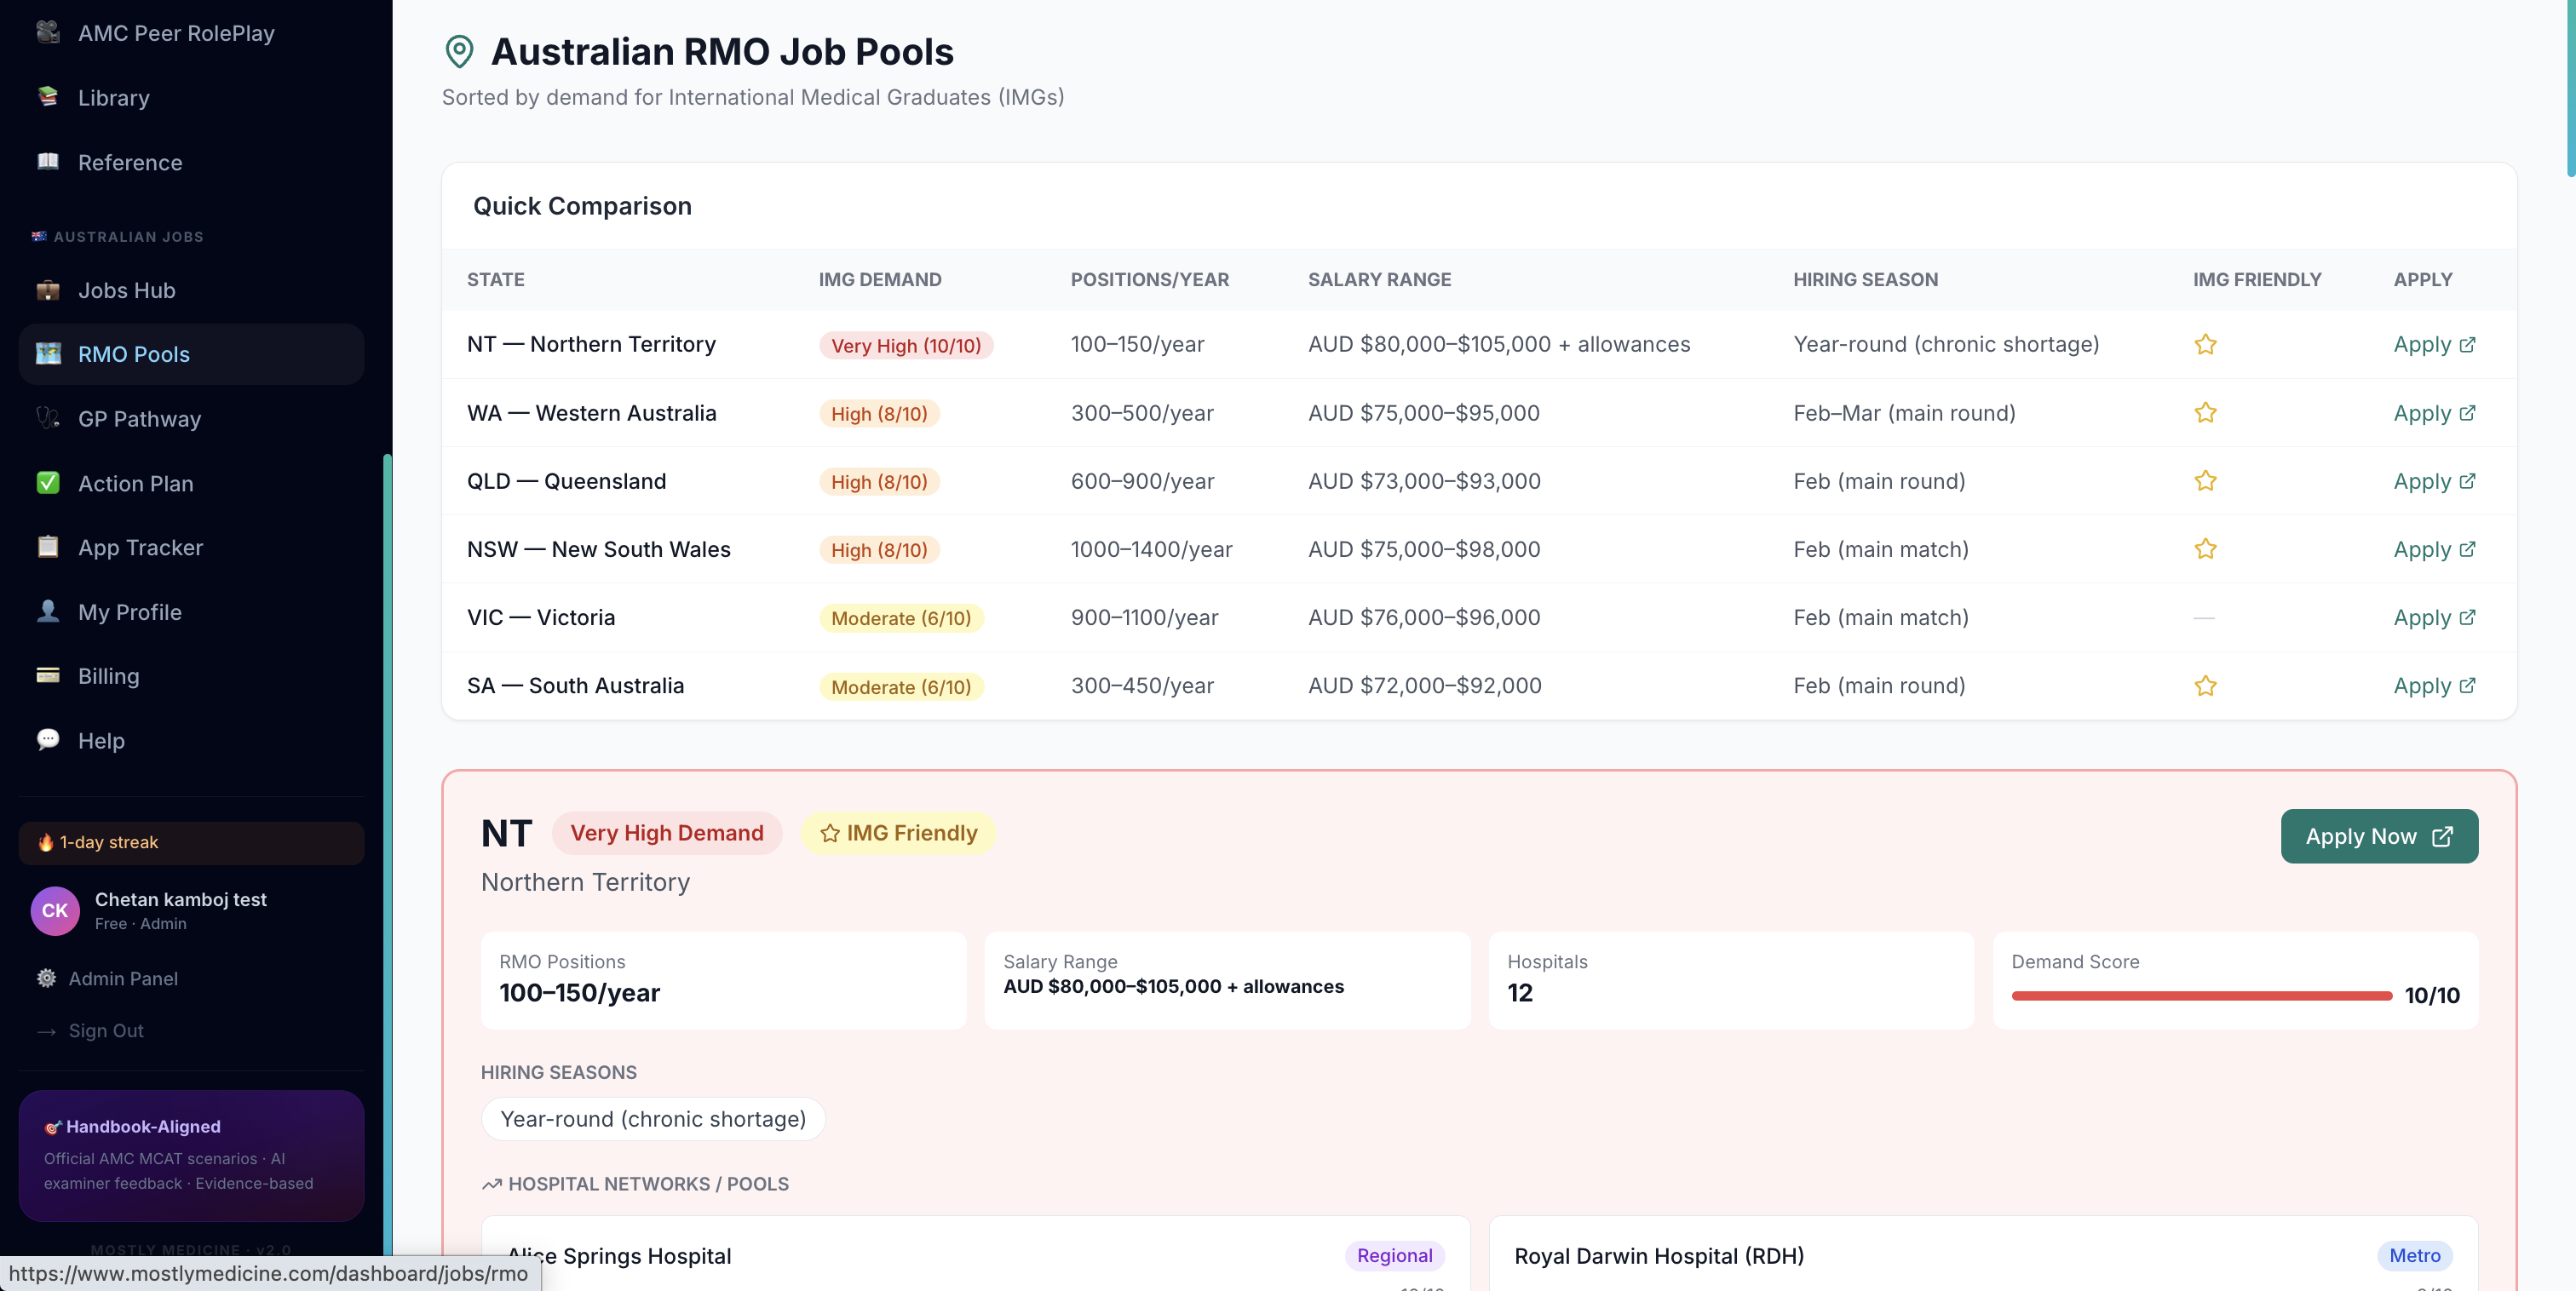
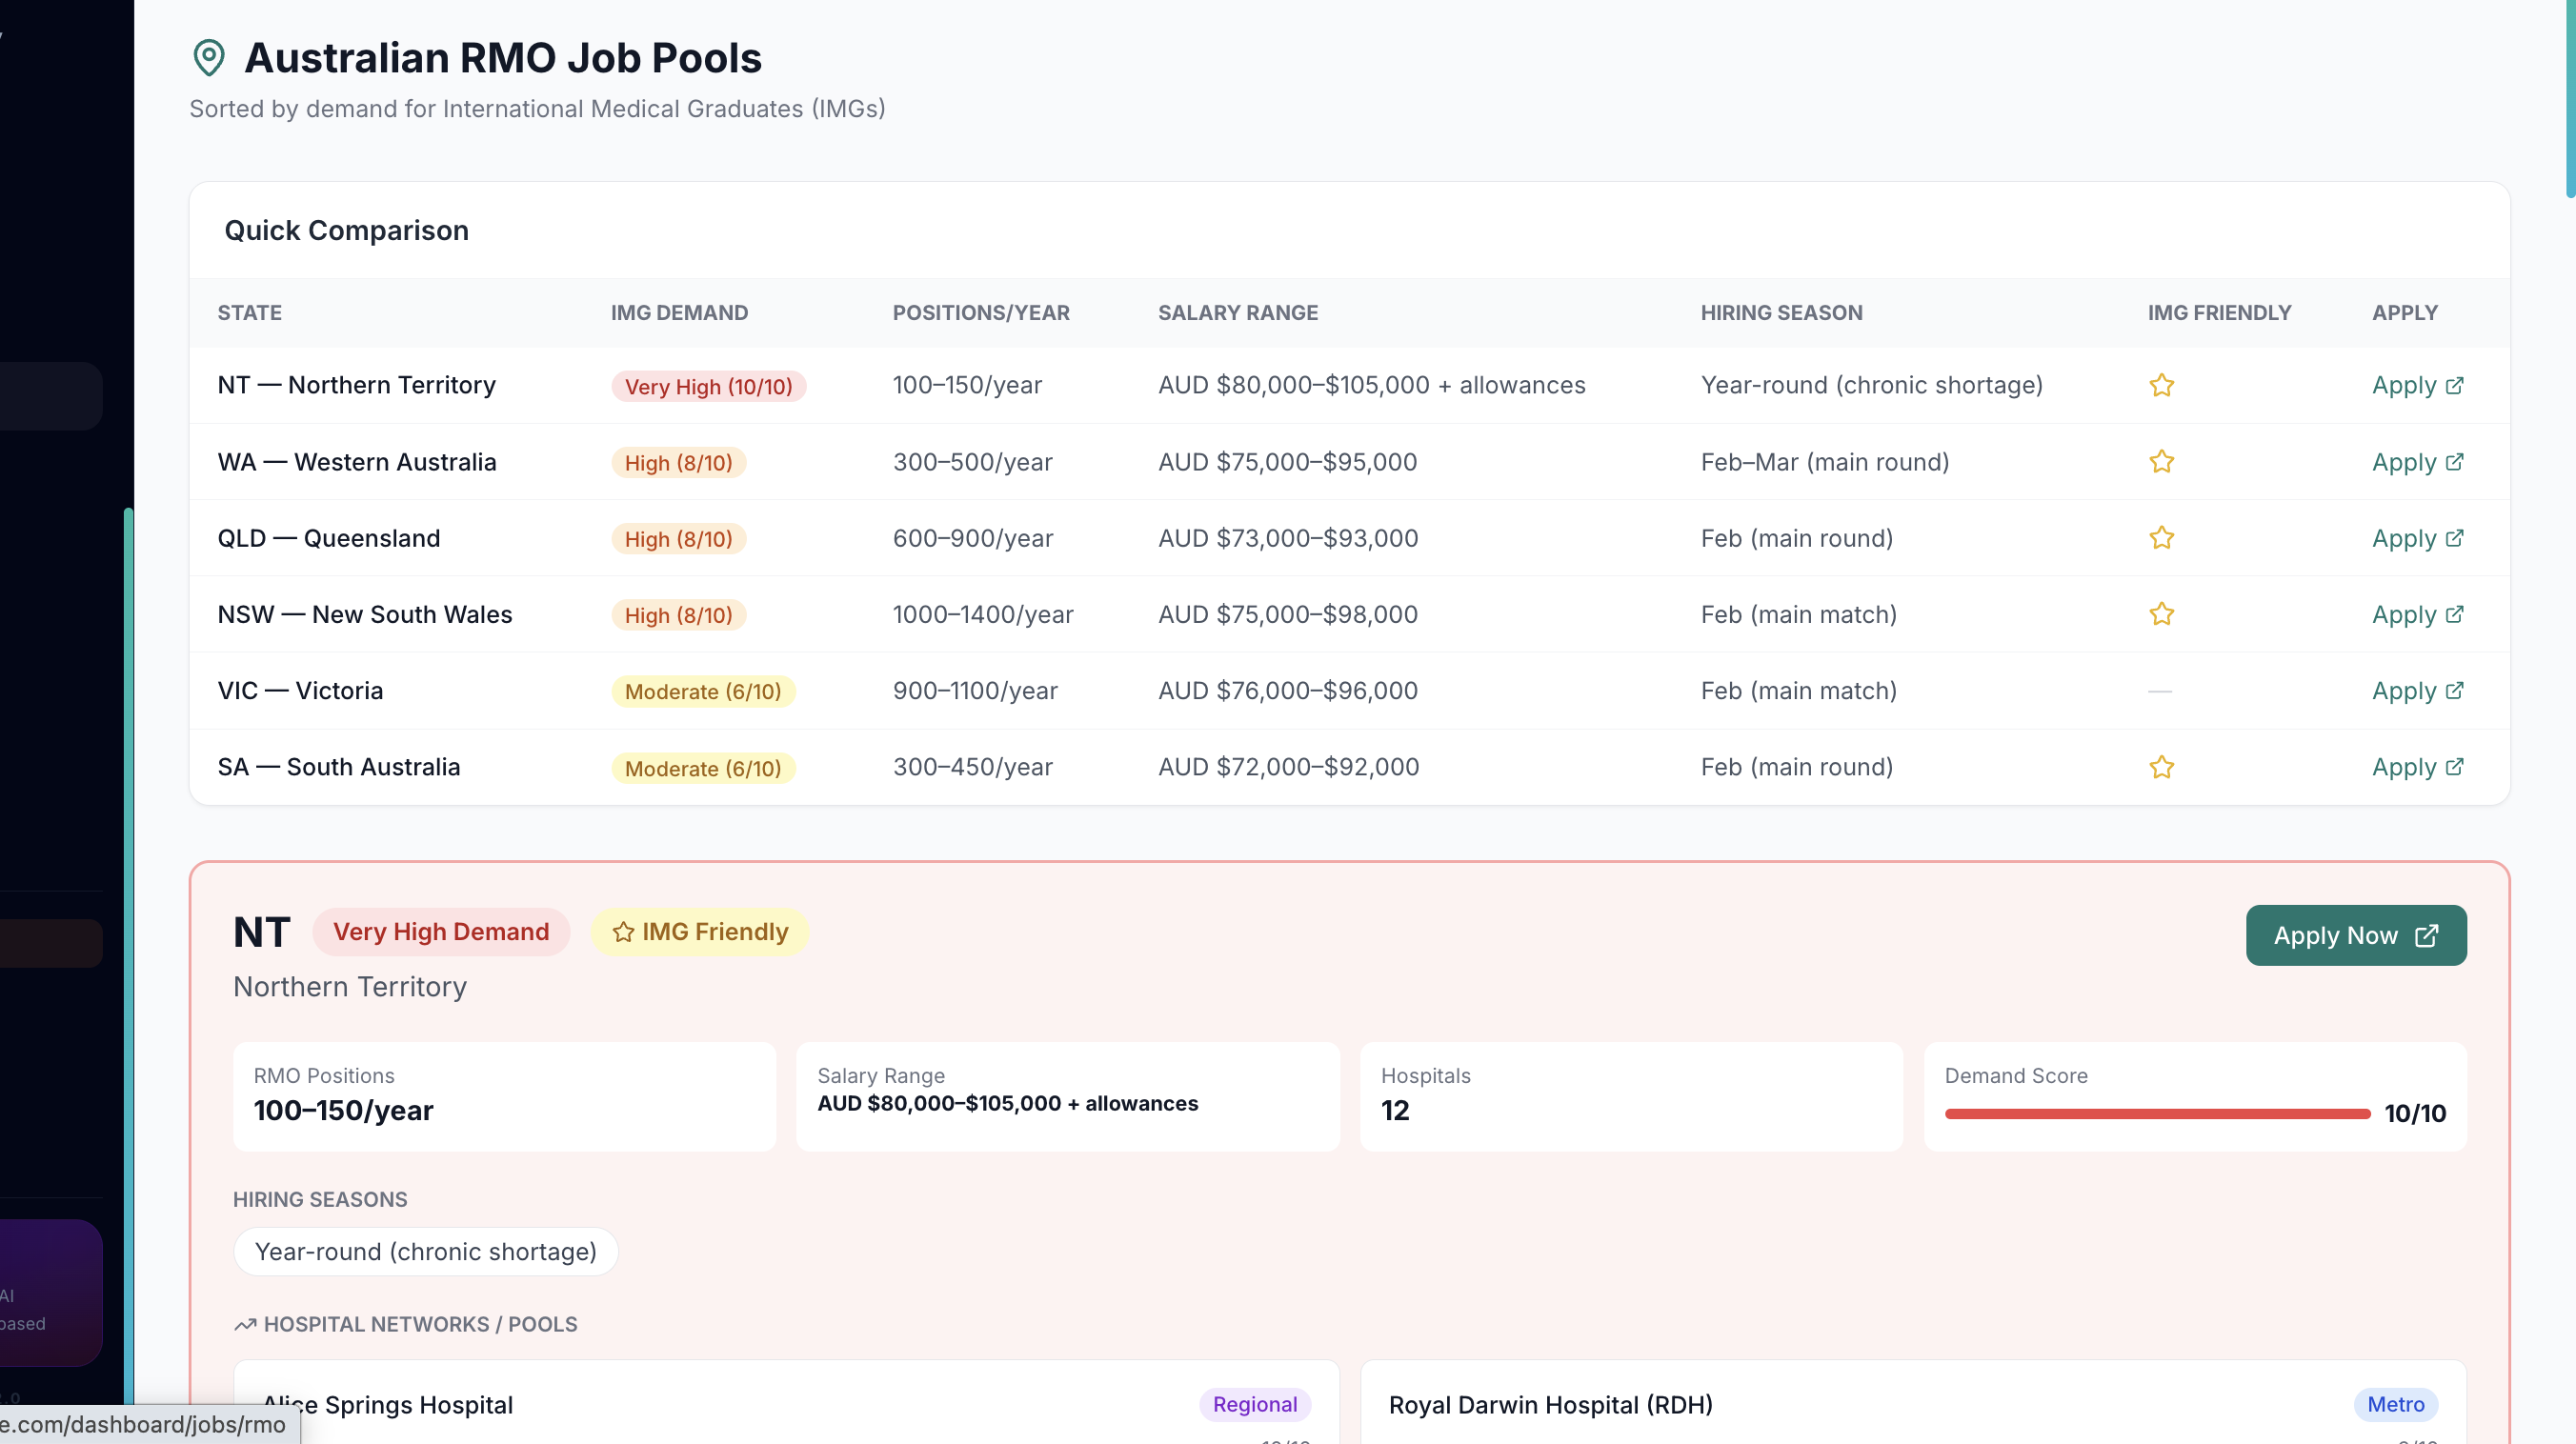
homepage: phone-frame screenshots for first 3 feature blocks
Desktop captures had a too-small text+sidebar mix that hurt readability.
Mobile screenshots are inherently larger-typed and fit a phone-frame
treatment that fits the StatDoctor pattern better:

- FeatureBlock: new `variant="phone"` wraps a portrait image in a
  rounded-[2.5rem] bezel with a notch hint and max-width-xs cap
- page.tsx: blocks 1-3 (MCQ / Voice OSCE / Flashcards) now use the
  mobile screenshots in phone frames
- AU Moat block keeps the desktop RMO-pools table (wide layout needed
  for the state-by-state comparison) with the left sidebar cropped

diff --git a/apps/web/src/components/landing/FeatureBlock.tsx b/apps/web/src/components/landing/FeatureBlock.tsx
@@ -11,6 +11,10 @@ interface Props {
   // Default: image-right. Set to true to flip and put image-left, text-right.
   reverse?: boolean;
   accent?: "emerald" | "violet" | "sky" | "rose";
+  // "phone" wraps a portrait mobile screenshot in a phone-style rounded
+  // frame, max-width constrained so it doesn't dominate the column.
+  // "screen" (default) is a landscape product capture in a card frame.
+  variant?: "screen" | "phone";
 }
 
 const ACCENT: Record<NonNullable<Props["accent"]>, { tag: string; cta: string }> = {
@@ -42,8 +46,18 @@ export default function FeatureBlock({
   imageAlt,
   reverse = false,
   accent = "emerald",
+  variant = "screen",
 }: Props) {
   const c = ACCENT[accent];
+  const glowColor =
+    accent === "emerald"
+      ? "bg-emerald-200/40"
+      : accent === "violet"
+        ? "bg-violet-200/40"
+        : accent === "sky"
+          ? "bg-sky-200/40"
+          : "bg-rose-200/40";
+
   return (
     <section className="bg-white py-20">
       <div className="mx-auto max-w-6xl px-6">
@@ -80,28 +94,40 @@ export default function FeatureBlock({
             </Link>
           </div>
 
-          {/* Image column — slim phone-style frame with subtle shadow */}
-          <div className="relative">
-            <div className="overflow-hidden rounded-2xl border border-slate-200 bg-slate-50 shadow-xl">
-              {/* eslint-disable-next-line @next/next/no-img-element */}
-              <img
-                src={imageSrc}
-                alt={imageAlt}
-                className="h-auto w-full"
-                loading="lazy"
-              />
-            </div>
+          {/* Image column — two visual treatments */}
+          <div className="relative flex items-center justify-center">
+            {variant === "phone" ? (
+              // Phone-style frame: rounded-[2.5rem] bezel + notch hint,
+              // max-width caps the portrait shot so it doesn't dwarf the
+              // text column on wide screens.
+              <div className="relative w-full max-w-xs">
+                <div className="relative overflow-hidden rounded-[2.5rem] border-[6px] border-slate-900 bg-slate-900 shadow-2xl">
+                  {/* Notch */}
+                  <div className="absolute left-1/2 top-1.5 z-10 h-4 w-20 -translate-x-1/2 rounded-full bg-slate-900" />
+                  {/* eslint-disable-next-line @next/next/no-img-element */}
+                  <img
+                    src={imageSrc}
+                    alt={imageAlt}
+                    className="block h-auto w-full"
+                    loading="lazy"
+                  />
+                </div>
+              </div>
+            ) : (
+              // Standard landscape product capture in a card frame.
+              <div className="w-full overflow-hidden rounded-2xl border border-slate-200 bg-slate-50 shadow-xl">
+                {/* eslint-disable-next-line @next/next/no-img-element */}
+                <img
+                  src={imageSrc}
+                  alt={imageAlt}
+                  className="h-auto w-full"
+                  loading="lazy"
+                />
+              </div>
+            )}
             {/* Soft accent glow behind the frame for visual interest */}
             <div
-              className={`pointer-events-none absolute -inset-4 -z-10 rounded-[2rem] blur-2xl ${
-                accent === "emerald"
-                  ? "bg-emerald-200/40"
-                  : accent === "violet"
-                    ? "bg-violet-200/40"
-                    : accent === "sky"
-                      ? "bg-sky-200/40"
-                      : "bg-rose-200/40"
-              }`}
+              className={`pointer-events-none absolute -inset-4 -z-10 rounded-[2rem] blur-2xl ${glowColor}`}
             />
           </div>
         </div>

diff --git a/apps/web/src/app/page.tsx b/apps/web/src/app/page.tsx
@@ -107,9 +107,10 @@ export default function Home() {
           "Free tier: 5 MCQs/day. Pro: unlimited.",
         ]}
         cta={{ href: "/amc-mcq", label: "Explore AMC MCQ" }}
-        imageSrc="/marketing/mcq-feedback.png"
-        imageAlt="Mostly Medicine MCQ feedback screen with citation"
+        imageSrc="/marketing/mobile-mcq.png"
+        imageAlt="Mostly Medicine MCQ on mobile — case stem with multiple choice"
         accent="emerald"
+        variant="phone"
       />
 
       <FeatureBlock
@@ -123,9 +124,10 @@ export default function Home() {
           "No partner needed. No scheduling. Free tier: 1/day.",
         ]}
         cta={{ href: "/amc-cat2", label: "Try voice OSCE" }}
-        imageSrc="/marketing/roleplay-session.png"
-        imageAlt="Mostly Medicine voice OSCE session with patient avatar"
+        imageSrc="/marketing/mobile-roleplay.png"
+        imageAlt="Mostly Medicine voice OSCE on mobile — scenario briefing"
         accent="violet"
+        variant="phone"
         reverse
       />
 
@@ -140,9 +142,10 @@ export default function Home() {
           "Free tier: 5 reviews/day across all decks.",
         ]}
         cta={{ href: "/dashboard/flashcards", label: "Open flashcards" }}
-        imageSrc="/marketing/flashcards-detail.png"
-        imageAlt="Mostly Medicine flashcards mid-review with cloze"
+        imageSrc="/marketing/mobile-flashcards.png"
+        imageAlt="Mostly Medicine flashcards on mobile — plan caps + due today + streak"
         accent="sky"
+        variant="phone"
       />
 
       <FeatureBlock